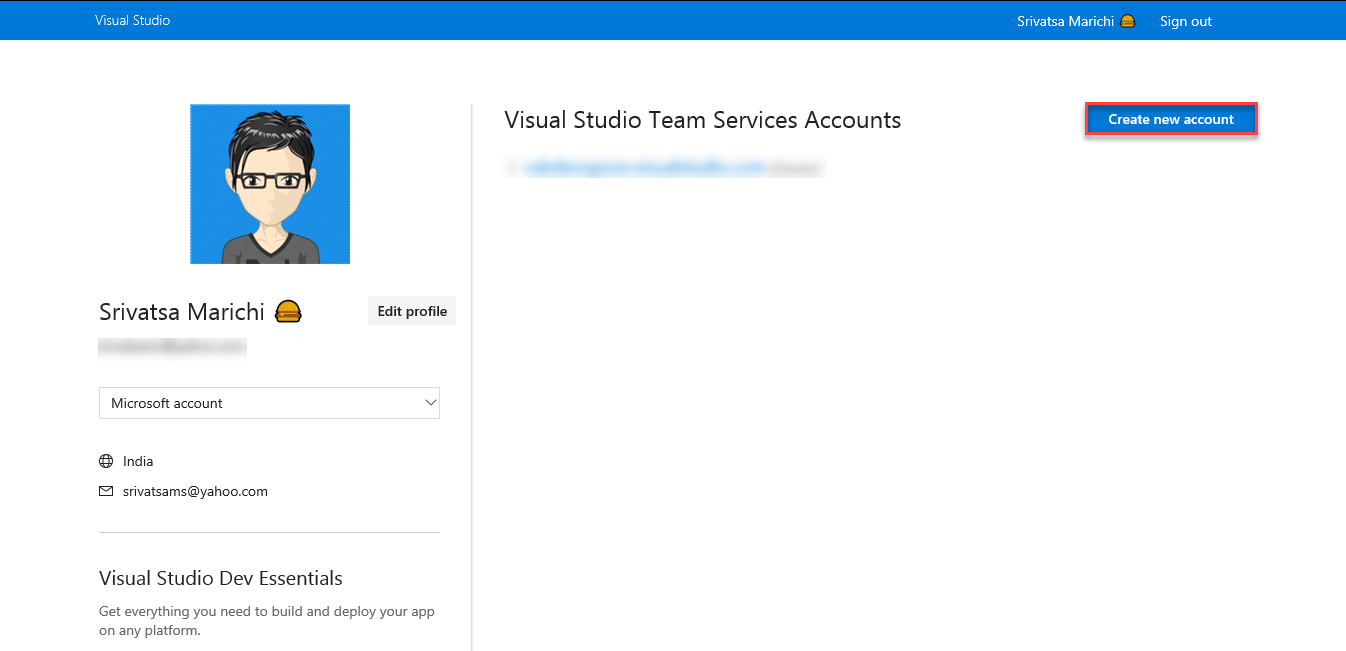
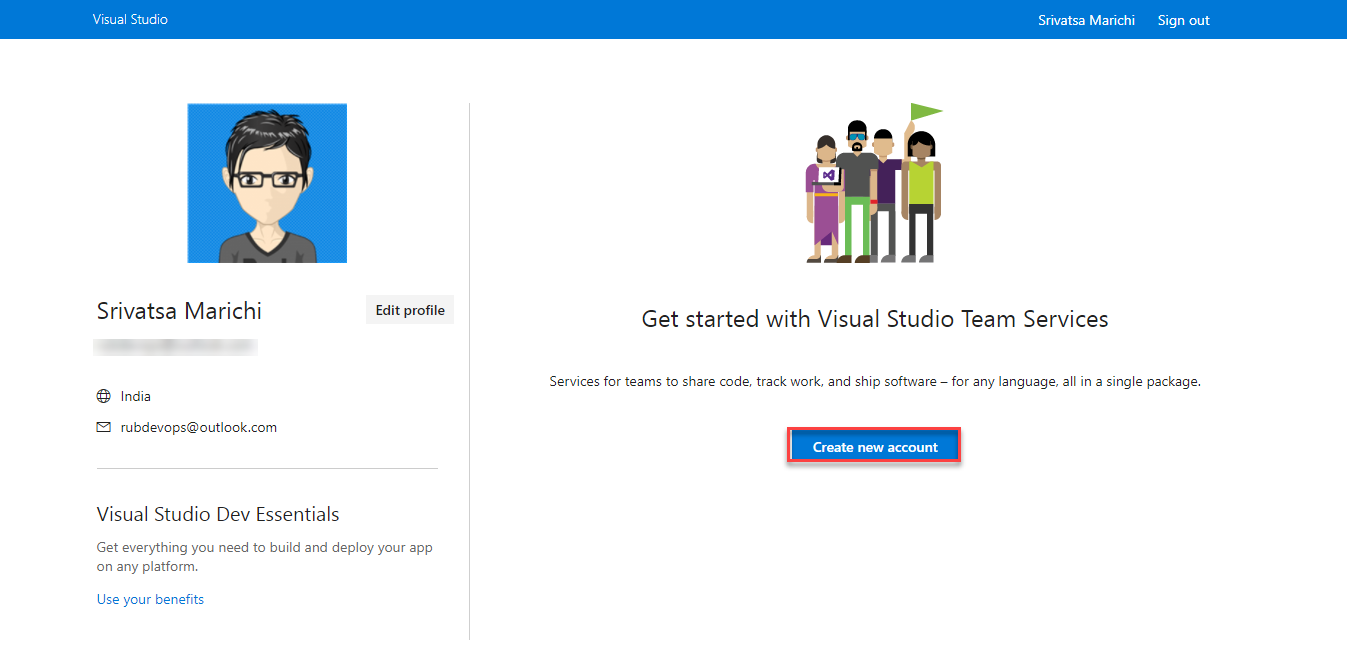
updating content

diff --git a/labs/java/settingvstsproject/readme.md b/labs/java/settingvstsproject/readme.md
@@ -36,7 +36,7 @@ few ways. Regardless, you’ll need a valid Microsoft Account or already linked 
 
 1. Once you’ve logged in, you might be greeted with a page (*if not, jump to the next step*), like the following, that will allow you to confirm your **display name**, **contact e-mail**, and your **country/region**. Once you set this information, you can change it later. Under the **Hello,** field, enter your first and last name. If you want to receive e-mail notifications from Visual Studio Team Services at a different e-mail address than the one associated with your Microsoft account, change the address shown under the **We’ll reach you at:** field. Click **Continue**.
 
-    ![create_account1](images/.png)
+    ![create_account1](images/user_details.png)
 
     You should now be at the **My Information** page. You’ll jump from here to the account creation process.
 
@@ -59,24 +59,22 @@ few ways. Regardless, you’ll need a valid Microsoft Account or already linked 
     The next section describes the Visual Studio Team Services on-boarding experience. What you see can and will vary if it is your first time
     accessing Visual Studio Team Services or not.
 
-1. On the right of the **My Information** page find the **Create a free account now** link and click it.
+1. On the **My Information** page find the **Create a free account now** link and click it.
 
     ![my_information](images/my_information.png)
 
     Once you do this, the experience you get might vary. If this is your very first time creating a team project, you will be prompted to create
     an account. Generally, you will see a screen like the following.
 
-    ![](images/image6.png)
+    ![create_account1](images/create_account1.png)
 
 1. Enter a value in the **Account URL** field. It is possible you might have to try a couple different names.
 
 1. Click the **Change Options** link.
 
-    ![](images/image7.png)
+    ![create_account2](images/create_account2.png)
 
 1. Select the appropriate region.
-
-    ![](images/image8.png)
 
 1. Click the **Create Account** button.
 
